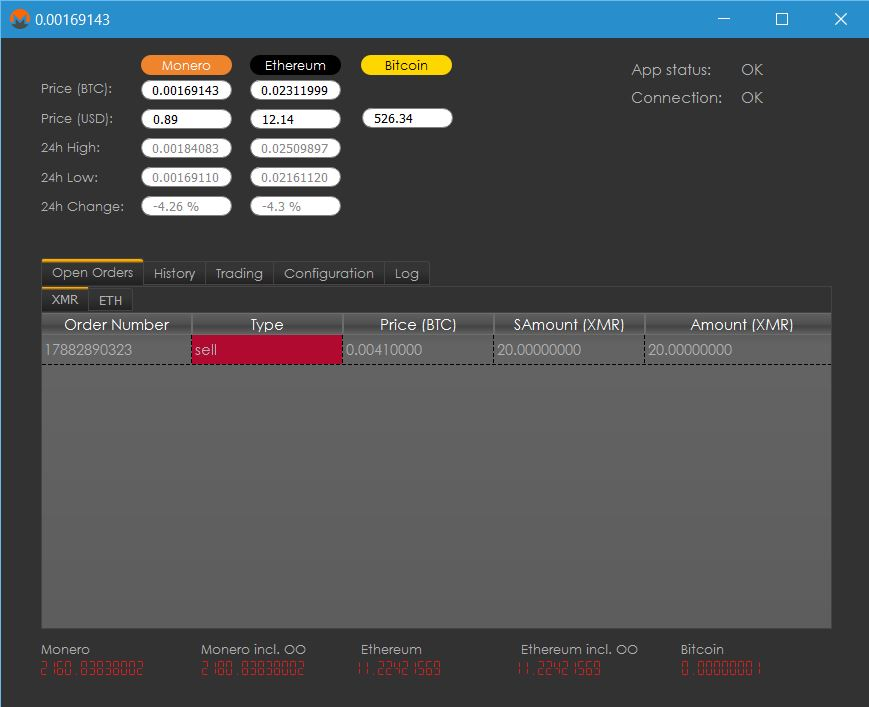
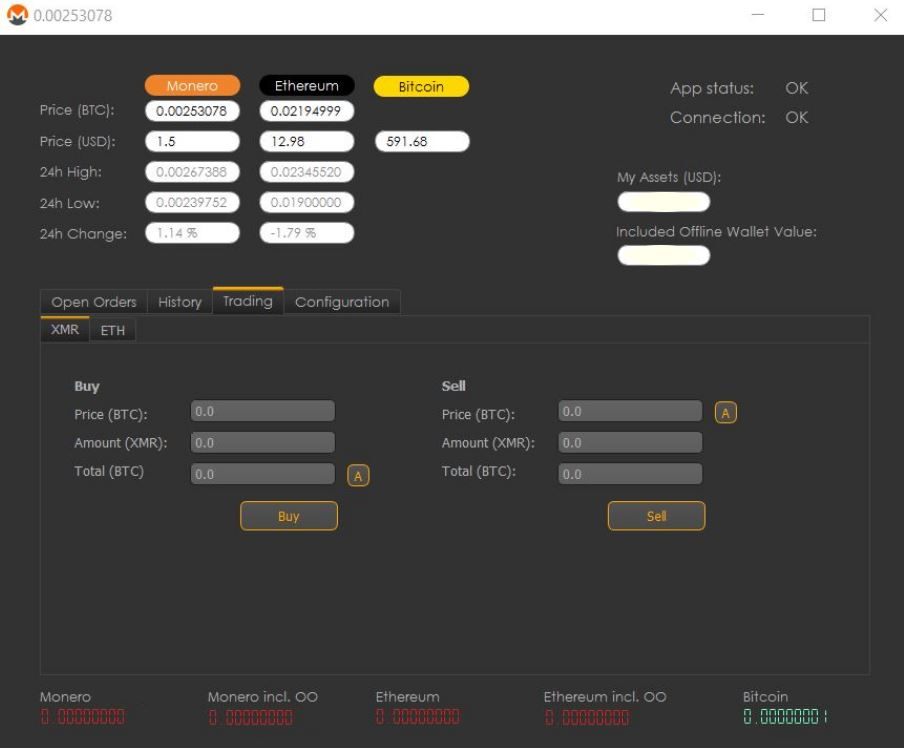
updated screenshot

diff --git a/main.py b/main.py
@@ -12,7 +12,7 @@ class Ui_MainWindow(object):
     def setupUi(self, MainWindow):
         MainWindow.setObjectName("MainWindow")
         MainWindow.setWindowModality(QtCore.Qt.NonModal)
-        MainWindow.resize(870, 706)
+        MainWindow.resize(871, 690)
         sizePolicy = QtWidgets.QSizePolicy(QtWidgets.QSizePolicy.Preferred, QtWidgets.QSizePolicy.Preferred)
         sizePolicy.setHorizontalStretch(0)
         sizePolicy.setVerticalStretch(0)
@@ -552,35 +552,35 @@ class Ui_MainWindow(object):
         self.centralWidget = QtWidgets.QWidget(MainWindow)
         self.centralWidget.setObjectName("centralWidget")
         self.lblMonero = QtWidgets.QLabel(self.centralWidget)
-        self.lblMonero.setGeometry(QtCore.QRect(40, 603, 53, 17))
+        self.lblMonero.setGeometry(QtCore.QRect(40, 622, 53, 17))
         font = QtGui.QFont()
         font.setFamily("Century Gothic")
         font.setPointSize(8)
         self.lblMonero.setFont(font)
         self.lblMonero.setObjectName("lblMonero")
         self.lblMoneroinclO = QtWidgets.QLabel(self.centralWidget)
-        self.lblMoneroinclO.setGeometry(QtCore.QRect(200, 603, 164, 17))
+        self.lblMoneroinclO.setGeometry(QtCore.QRect(200, 622, 164, 17))
         font = QtGui.QFont()
         font.setFamily("Century Gothic")
         font.setPointSize(8)
         self.lblMoneroinclO.setFont(font)
         self.lblMoneroinclO.setObjectName("lblMoneroinclO")
         self.lblBitcoin = QtWidgets.QLabel(self.centralWidget)
-        self.lblBitcoin.setGeometry(QtCore.QRect(710, 603, 47, 17))
+        self.lblBitcoin.setGeometry(QtCore.QRect(710, 622, 47, 17))
         font = QtGui.QFont()
         font.setFamily("Century Gothic")
         font.setPointSize(8)
         self.lblBitcoin.setFont(font)
         self.lblBitcoin.setObjectName("lblBitcoin")
         self.lblEthereum = QtWidgets.QLabel(self.centralWidget)
-        self.lblEthereum.setGeometry(QtCore.QRect(360, 603, 65, 17))
+        self.lblEthereum.setGeometry(QtCore.QRect(360, 622, 65, 17))
         font = QtGui.QFont()
         font.setFamily("Century Gothic")
         font.setPointSize(8)
         self.lblEthereum.setFont(font)
         self.lblEthereum.setObjectName("lblEthereum")
         self.tabWidget = QtWidgets.QTabWidget(self.centralWidget)
-        self.tabWidget.setGeometry(QtCore.QRect(40, 220, 791, 371))
+        self.tabWidget.setGeometry(QtCore.QRect(40, 239, 791, 371))
         palette = QtGui.QPalette()
         brush = QtGui.QBrush(QtGui.QColor(177, 177, 177))
         brush.setStyle(QtCore.Qt.SolidPattern)
@@ -1385,13 +1385,13 @@ class Ui_MainWindow(object):
         self.tabConfiguration = QtWidgets.QWidget()
         self.tabConfiguration.setObjectName("tabConfiguration")
         self.saveButton = QtWidgets.QPushButton(self.tabConfiguration)
-        self.saveButton.setGeometry(QtCore.QRect(590, 120, 93, 28))
+        self.saveButton.setGeometry(QtCore.QRect(590, 139, 93, 28))
         self.saveButton.setStyleSheet("")
         self.saveButton.setDefault(False)
         self.saveButton.setFlat(False)
         self.saveButton.setObjectName("saveButton")
         self.layoutWidget4 = QtWidgets.QWidget(self.tabConfiguration)
-        self.layoutWidget4.setGeometry(QtCore.QRect(30, 30, 91, 66))
+        self.layoutWidget4.setGeometry(QtCore.QRect(30, 49, 91, 66))
         self.layoutWidget4.setObjectName("layoutWidget4")
         self.verticalLayout_8 = QtWidgets.QVBoxLayout(self.layoutWidget4)
         self.verticalLayout_8.setContentsMargins(0, 0, 0, 0)
@@ -1410,7 +1410,7 @@ class Ui_MainWindow(object):
         self.lblSecretKey.setObjectName("lblSecretKey")
         self.verticalLayout_8.addWidget(self.lblSecretKey)
         self.layoutWidget5 = QtWidgets.QWidget(self.tabConfiguration)
-        self.layoutWidget5.setGeometry(QtCore.QRect(150, 50, 531, 55))
+        self.layoutWidget5.setGeometry(QtCore.QRect(150, 69, 531, 55))
         self.layoutWidget5.setObjectName("layoutWidget5")
         self.verticalLayout_9 = QtWidgets.QVBoxLayout(self.layoutWidget5)
         self.verticalLayout_9.setContentsMargins(0, 0, 0, 0)
@@ -1422,11 +1422,11 @@ class Ui_MainWindow(object):
         self.lnSecretKey.setObjectName("lnSecretKey")
         self.verticalLayout_9.addWidget(self.lnSecretKey)
         self.lblrestartkey = QtWidgets.QLabel(self.tabConfiguration)
-        self.lblrestartkey.setGeometry(QtCore.QRect(30, 160, 501, 16))
+        self.lblrestartkey.setGeometry(QtCore.QRect(30, 179, 501, 16))
         self.lblrestartkey.setObjectName("lblrestartkey")
         self.tabWidget.addTab(self.tabConfiguration, "")
         self.layoutWidget6 = QtWidgets.QWidget(self.centralWidget)
-        self.layoutWidget6.setGeometry(QtCore.QRect(40, 41, 95, 141))
+        self.layoutWidget6.setGeometry(QtCore.QRect(40, 60, 95, 141))
         font = QtGui.QFont()
         font.setFamily("Century Gothic")
         self.layoutWidget6.setFont(font)
@@ -1471,14 +1471,14 @@ class Ui_MainWindow(object):
         self.lblChange.setObjectName("lblChange")
         self.verticalLayout.addWidget(self.lblChange)
         self.lblEthereuminclO = QtWidgets.QLabel(self.centralWidget)
-        self.lblEthereuminclO.setGeometry(QtCore.QRect(520, 603, 131, 17))
+        self.lblEthereuminclO.setGeometry(QtCore.QRect(520, 622, 131, 17))
         font = QtGui.QFont()
         font.setFamily("Century Gothic")
         font.setPointSize(8)
         self.lblEthereuminclO.setFont(font)
         self.lblEthereuminclO.setObjectName("lblEthereuminclO")
         self.lblMonerox = QtWidgets.QLabel(self.centralWidget)
-        self.lblMonerox.setGeometry(QtCore.QRect(140, 19, 91, 20))
+        self.lblMonerox.setGeometry(QtCore.QRect(140, 38, 91, 20))
         palette = QtGui.QPalette()
         brush = QtGui.QBrush(QtGui.QColor(255, 255, 255))
         brush.setStyle(QtCore.Qt.SolidPattern)
@@ -1552,7 +1552,7 @@ class Ui_MainWindow(object):
         self.lblMonerox.setAlignment(QtCore.Qt.AlignCenter)
         self.lblMonerox.setObjectName("lblMonerox")
         self.lblEthereumx = QtWidgets.QLabel(self.centralWidget)
-        self.lblEthereumx.setGeometry(QtCore.QRect(249, 19, 91, 20))
+        self.lblEthereumx.setGeometry(QtCore.QRect(249, 38, 91, 20))
         palette = QtGui.QPalette()
         brush = QtGui.QBrush(QtGui.QColor(255, 255, 255))
         brush.setStyle(QtCore.Qt.SolidPattern)
@@ -1627,7 +1627,7 @@ class Ui_MainWindow(object):
         self.lblEthereumx.setContentsMargins(0, 0, 0, 0)
         self.lblEthereumx.setObjectName("lblEthereumx")
         self.layoutWidget7 = QtWidgets.QWidget(self.centralWidget)
-        self.layoutWidget7.setGeometry(QtCore.QRect(140, 42, 91, 140))
+        self.layoutWidget7.setGeometry(QtCore.QRect(140, 61, 91, 140))
         self.layoutWidget7.setObjectName("layoutWidget7")
         self.verticalLayout_2 = QtWidgets.QVBoxLayout(self.layoutWidget7)
         self.verticalLayout_2.setContentsMargins(0, 0, 0, 0)
@@ -1719,7 +1719,7 @@ class Ui_MainWindow(object):
         self.lnChange.setObjectName("lnChange")
         self.verticalLayout_2.addWidget(self.lnChange)
         self.layoutWidget8 = QtWidgets.QWidget(self.centralWidget)
-        self.layoutWidget8.setGeometry(QtCore.QRect(249, 42, 91, 140))
+        self.layoutWidget8.setGeometry(QtCore.QRect(249, 61, 91, 140))
         self.layoutWidget8.setObjectName("layoutWidget8")
         self.verticalLayout_4 = QtWidgets.QVBoxLayout(self.layoutWidget8)
         self.verticalLayout_4.setContentsMargins(0, 0, 0, 0)
@@ -1808,7 +1808,7 @@ class Ui_MainWindow(object):
         self.lnETHChange.setObjectName("lnETHChange")
         self.verticalLayout_4.addWidget(self.lnETHChange)
         self.lcdEthereum = QtWidgets.QLCDNumber(self.centralWidget)
-        self.lcdEthereum.setGeometry(QtCore.QRect(310, 620, 141, 21))
+        self.lcdEthereum.setGeometry(QtCore.QRect(310, 639, 141, 21))
         self.lcdEthereum.setMaximumSize(QtCore.QSize(16777215, 16777215))
         palette = QtGui.QPalette()
         brush = QtGui.QBrush(QtGui.QColor(216, 32, 32))
@@ -1884,7 +1884,7 @@ class Ui_MainWindow(object):
         self.lcdEthereum.setSegmentStyle(QtWidgets.QLCDNumber.Flat)
         self.lcdEthereum.setObjectName("lcdEthereum")
         self.lcdMonero = QtWidgets.QLCDNumber(self.centralWidget)
-        self.lcdMonero.setGeometry(QtCore.QRect(13, 620, 141, 21))
+        self.lcdMonero.setGeometry(QtCore.QRect(13, 639, 141, 21))
         sizePolicy = QtWidgets.QSizePolicy(QtWidgets.QSizePolicy.Minimum, QtWidgets.QSizePolicy.Minimum)
         sizePolicy.setHorizontalStretch(0)
         sizePolicy.setVerticalStretch(0)
@@ -1989,7 +1989,7 @@ class Ui_MainWindow(object):
         self.lcdMonero.setSegmentStyle(QtWidgets.QLCDNumber.Flat)
         self.lcdMonero.setObjectName("lcdMonero")
         self.lcdEthereuminclO = QtWidgets.QLCDNumber(self.centralWidget)
-        self.lcdEthereuminclO.setGeometry(QtCore.QRect(470, 620, 141, 21))
+        self.lcdEthereuminclO.setGeometry(QtCore.QRect(470, 639, 141, 21))
         self.lcdEthereuminclO.setMaximumSize(QtCore.QSize(16777215, 16777215))
         palette = QtGui.QPalette()
         brush = QtGui.QBrush(QtGui.QColor(216, 32, 32))
@@ -2065,7 +2065,7 @@ class Ui_MainWindow(object):
         self.lcdEthereuminclO.setSegmentStyle(QtWidgets.QLCDNumber.Flat)
         self.lcdEthereuminclO.setObjectName("lcdEthereuminclO")
         self.lcdBitcoin = QtWidgets.QLCDNumber(self.centralWidget)
-        self.lcdBitcoin.setGeometry(QtCore.QRect(660, 620, 141, 21))
+        self.lcdBitcoin.setGeometry(QtCore.QRect(660, 639, 141, 21))
         palette = QtGui.QPalette()
         brush = QtGui.QBrush(QtGui.QColor(216, 32, 32))
         brush.setStyle(QtCore.Qt.SolidPattern)
@@ -2140,7 +2140,7 @@ class Ui_MainWindow(object):
         self.lcdBitcoin.setSegmentStyle(QtWidgets.QLCDNumber.Flat)
         self.lcdBitcoin.setObjectName("lcdBitcoin")
         self.lcdMoneroinclO = QtWidgets.QLCDNumber(self.centralWidget)
-        self.lcdMoneroinclO.setGeometry(QtCore.QRect(174, 620, 141, 21))
+        self.lcdMoneroinclO.setGeometry(QtCore.QRect(174, 639, 141, 21))
         palette = QtGui.QPalette()
         brush = QtGui.QBrush(QtGui.QColor(216, 32, 32))
         brush.setStyle(QtCore.Qt.SolidPattern)
@@ -2215,7 +2215,7 @@ class Ui_MainWindow(object):
         self.lcdMoneroinclO.setSegmentStyle(QtWidgets.QLCDNumber.Flat)
         self.lcdMoneroinclO.setObjectName("lcdMoneroinclO")
         self.layoutWidget9 = QtWidgets.QWidget(self.centralWidget)
-        self.layoutWidget9.setGeometry(QtCore.QRect(640, 20, 102, 49))
+        self.layoutWidget9.setGeometry(QtCore.QRect(640, 39, 102, 49))
         self.layoutWidget9.setObjectName("layoutWidget9")
         self.verticalLayout_14 = QtWidgets.QVBoxLayout(self.layoutWidget9)
         self.verticalLayout_14.setContentsMargins(0, 0, 0, 0)
@@ -2353,7 +2353,7 @@ class Ui_MainWindow(object):
         self.lblNetworkStatus.setObjectName("lblNetworkStatus")
         self.verticalLayout_14.addWidget(self.lblNetworkStatus)
         self.layoutWidget10 = QtWidgets.QWidget(self.centralWidget)
-        self.layoutWidget10.setGeometry(QtCore.QRect(750, 20, 91, 49))
+        self.layoutWidget10.setGeometry(QtCore.QRect(750, 39, 91, 49))
         self.layoutWidget10.setObjectName("layoutWidget10")
         self.verticalLayout_15 = QtWidgets.QVBoxLayout(self.layoutWidget10)
         self.verticalLayout_15.setContentsMargins(0, 0, 0, 0)
@@ -2373,7 +2373,7 @@ class Ui_MainWindow(object):
         self.lblNetworkStatusResult.setObjectName("lblNetworkStatusResult")
         self.verticalLayout_15.addWidget(self.lblNetworkStatusResult)
         self.lblBitcoinx = QtWidgets.QLabel(self.centralWidget)
-        self.lblBitcoinx.setGeometry(QtCore.QRect(358, 20, 91, 20))
+        self.lblBitcoinx.setGeometry(QtCore.QRect(358, 39, 91, 20))
         palette = QtGui.QPalette()
         brush = QtGui.QBrush(QtGui.QColor(0, 0, 0))
         brush.setStyle(QtCore.Qt.SolidPattern)
@@ -2447,7 +2447,7 @@ class Ui_MainWindow(object):
         self.lblBitcoinx.setContentsMargins(0, 0, 0, 0)
         self.lblBitcoinx.setObjectName("lblBitcoinx")
         self.layoutWidget11 = QtWidgets.QWidget(self.centralWidget)
-        self.layoutWidget11.setGeometry(QtCore.QRect(359, 57, 91, 51))
+        self.layoutWidget11.setGeometry(QtCore.QRect(359, 76, 91, 51))
         self.layoutWidget11.setObjectName("layoutWidget11")
         self.verticalLayout_16 = QtWidgets.QVBoxLayout(self.layoutWidget11)
         self.verticalLayout_16.setContentsMargins(0, 0, 0, 0)
@@ -2473,13 +2473,13 @@ class Ui_MainWindow(object):
         self.lnBTCPriceUSD.setObjectName("lnBTCPriceUSD")
         self.verticalLayout_16.addWidget(self.lnBTCPriceUSD)
         self.label_2 = QtWidgets.QLabel(self.centralWidget)
-        self.label_2.setGeometry(QtCore.QRect(590, 108, 111, 16))
+        self.label_2.setGeometry(QtCore.QRect(590, 127, 111, 16))
         font = QtGui.QFont()
         font.setFamily("Century Gothic")
         self.label_2.setFont(font)
         self.label_2.setObjectName("label_2")
         self.lnMyAssets = QtWidgets.QLineEdit(self.centralWidget)
-        self.lnMyAssets.setGeometry(QtCore.QRect(590, 130, 89, 20))
+        self.lnMyAssets.setGeometry(QtCore.QRect(590, 149, 89, 20))
         font = QtGui.QFont()
         font.setFamily("Century Gothic")
         font.setPointSize(8)
@@ -2504,13 +2504,13 @@ class Ui_MainWindow(object):
         self.lnMyAssets.setClearButtonEnabled(False)
         self.lnMyAssets.setObjectName("lnMyAssets")
         self.label_3 = QtWidgets.QLabel(self.centralWidget)
-        self.label_3.setGeometry(QtCore.QRect(589, 160, 231, 16))
+        self.label_3.setGeometry(QtCore.QRect(589, 179, 231, 16))
         font = QtGui.QFont()
         font.setFamily("Century Gothic")
         self.label_3.setFont(font)
         self.label_3.setObjectName("label_3")
         self.lnMyAssetsALL = QtWidgets.QLineEdit(self.centralWidget)
-        self.lnMyAssetsALL.setGeometry(QtCore.QRect(590, 181, 89, 20))
+        self.lnMyAssetsALL.setGeometry(QtCore.QRect(590, 200, 89, 20))
         font = QtGui.QFont()
         font.setFamily("Century Gothic")
         font.setPointSize(8)
@@ -2535,20 +2535,11 @@ class Ui_MainWindow(object):
         self.lnMyAssetsALL.setClearButtonEnabled(False)
         self.lnMyAssetsALL.setObjectName("lnMyAssetsALL")
         MainWindow.setCentralWidget(self.centralWidget)
-        self.menuBar = QtWidgets.QMenuBar(MainWindow)
-        self.menuBar.setGeometry(QtCore.QRect(0, 0, 870, 26))
-        self.menuBar.setObjectName("menuBar")
-        self.menuMen = QtWidgets.QMenu(self.menuBar)
-        self.menuMen.setObjectName("menuMen")
-        MainWindow.setMenuBar(self.menuBar)
         self.actionSettings = QtWidgets.QAction(MainWindow)
         self.actionSettings.setMenuRole(QtWidgets.QAction.TextHeuristicRole)
         self.actionSettings.setObjectName("actionSettings")
         self.actionLog = QtWidgets.QAction(MainWindow)
         self.actionLog.setObjectName("actionLog")
-        self.menuMen.addAction(self.actionSettings)
-        self.menuMen.addAction(self.actionLog)
-        self.menuBar.addAction(self.menuMen.menuAction())
 
         self.retranslateUi(MainWindow)
         self.tabWidget.setCurrentIndex(3)
@@ -2658,7 +2649,6 @@ class Ui_MainWindow(object):
         self.lblBitcoinx.setText(_translate("MainWindow", "Bitcoin"))
         self.label_2.setText(_translate("MainWindow", "My Assets (USD):"))
         self.label_3.setText(_translate("MainWindow", "Included Offline Wallet Value:"))
-        self.menuMen.setTitle(_translate("MainWindow", "Menü"))
         self.actionSettings.setText(_translate("MainWindow", "Settings"))
         self.actionLog.setText(_translate("MainWindow", "Log"))
 
